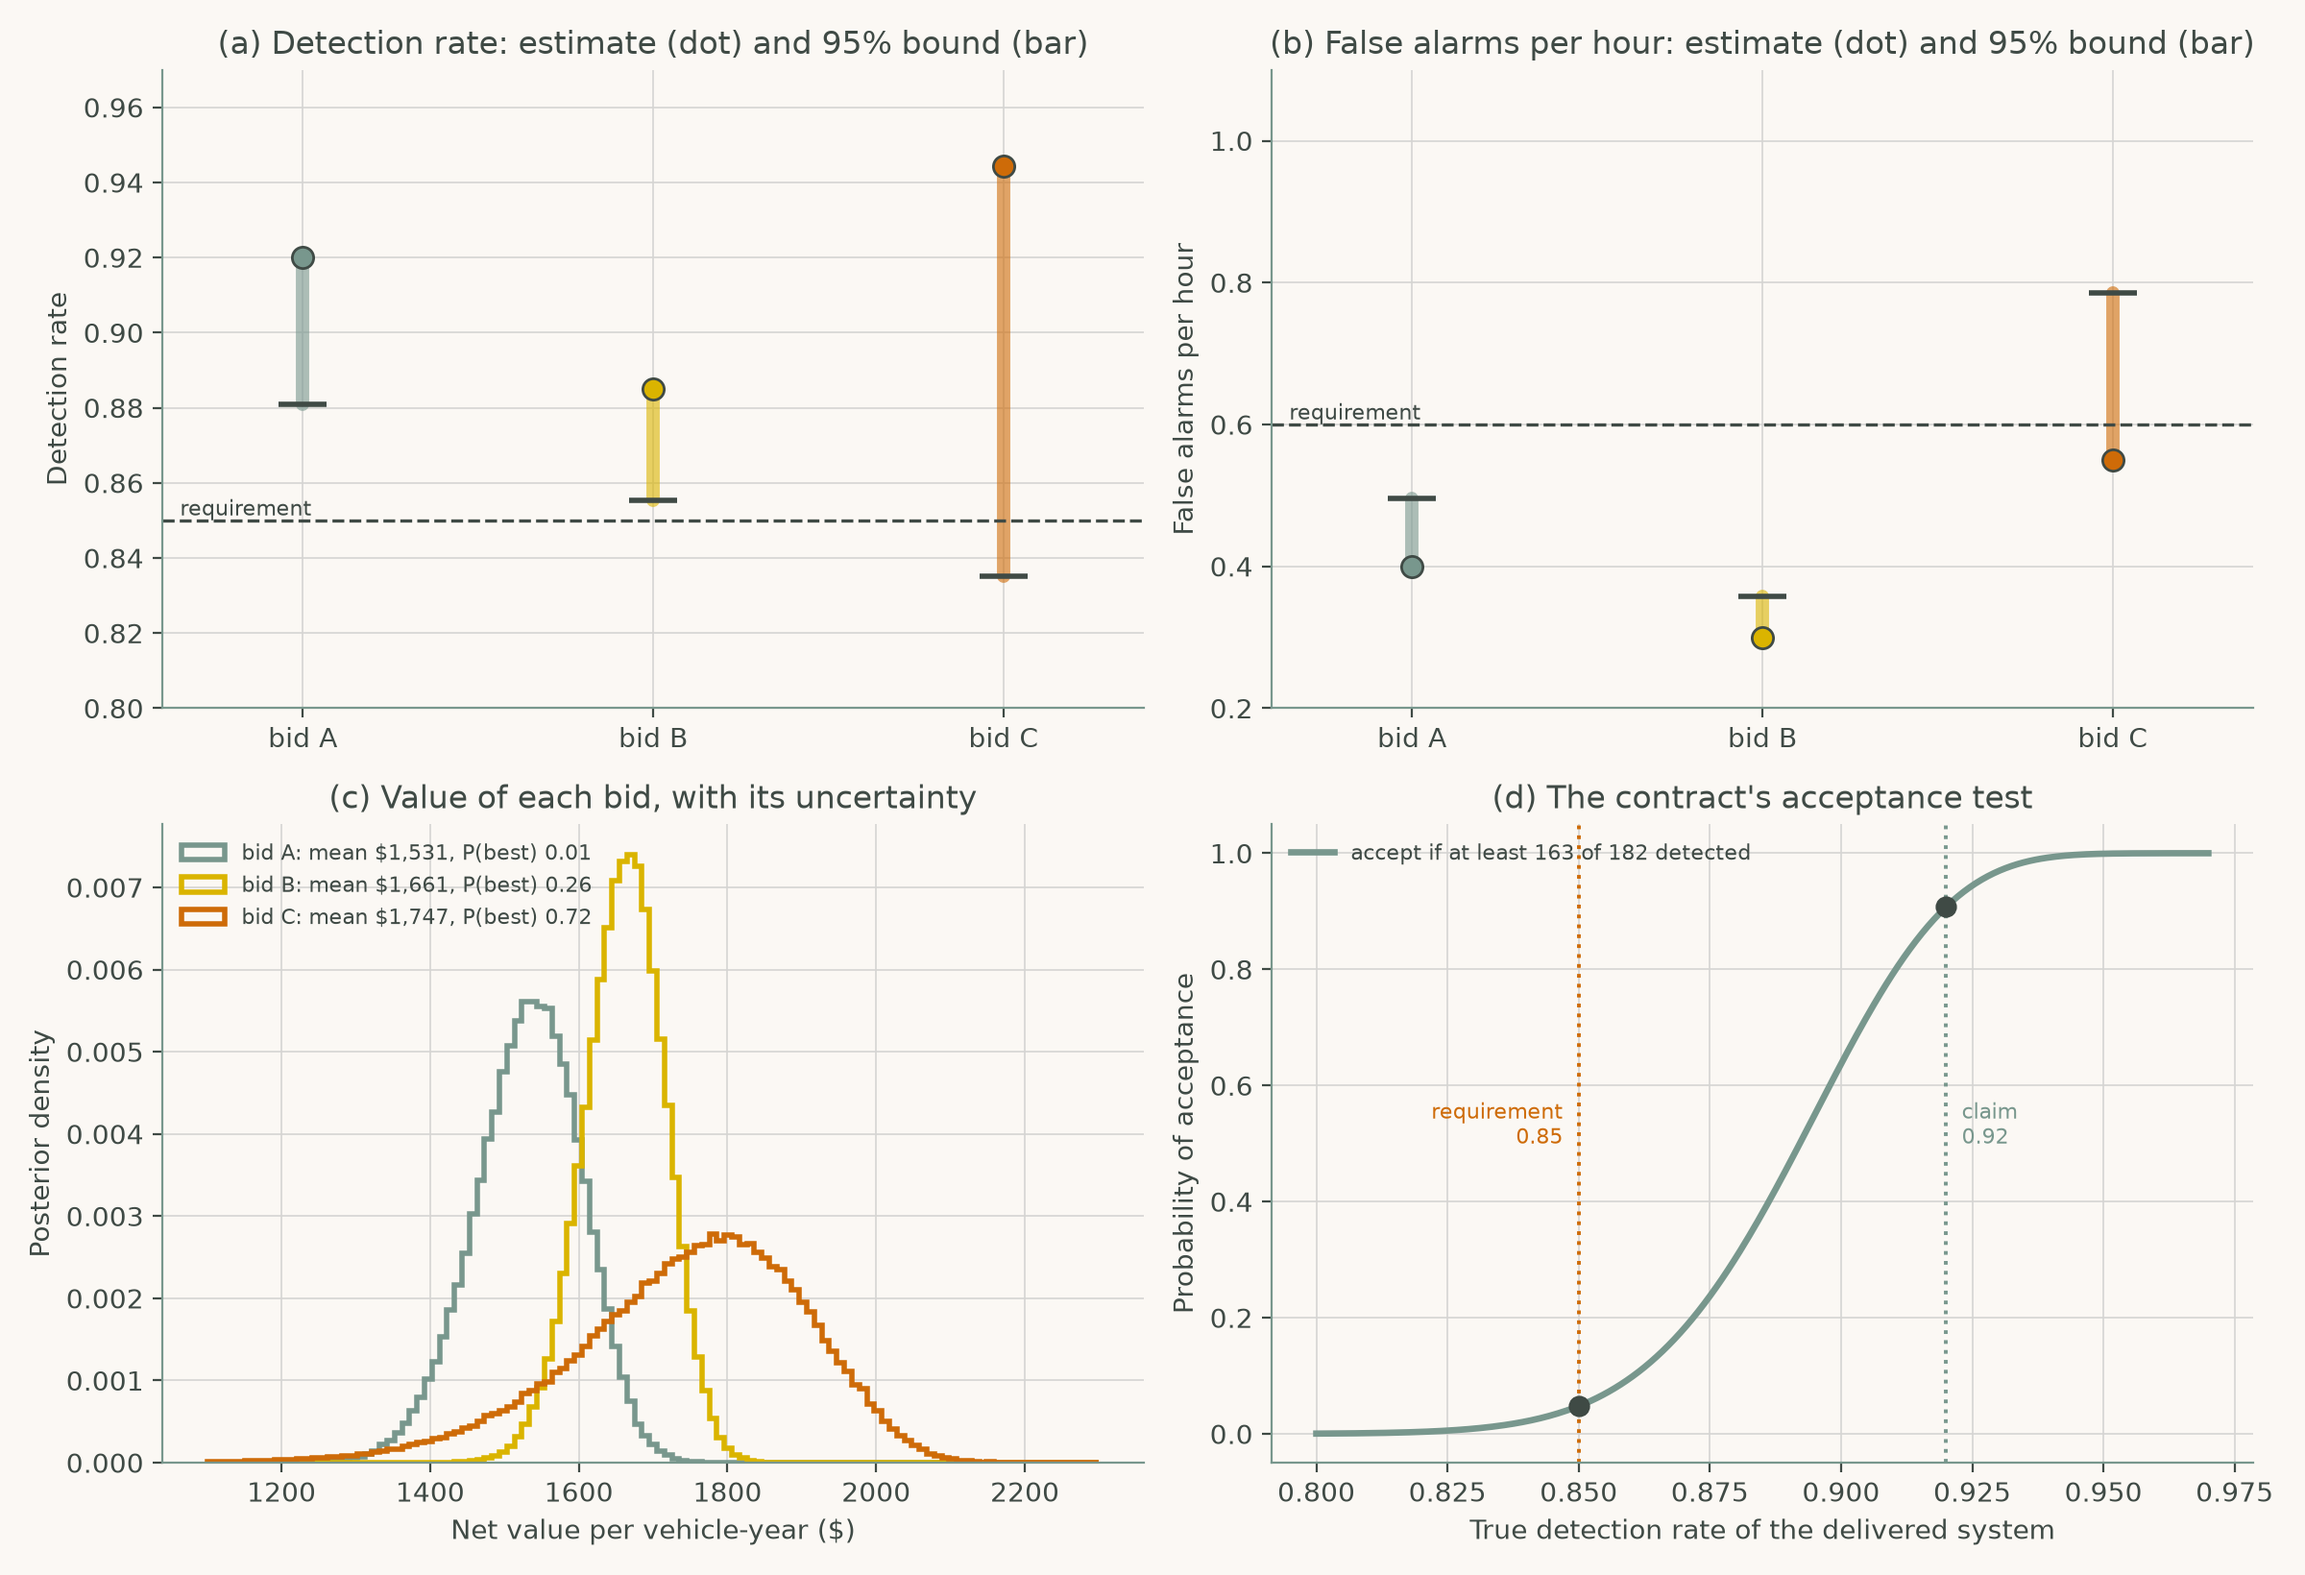
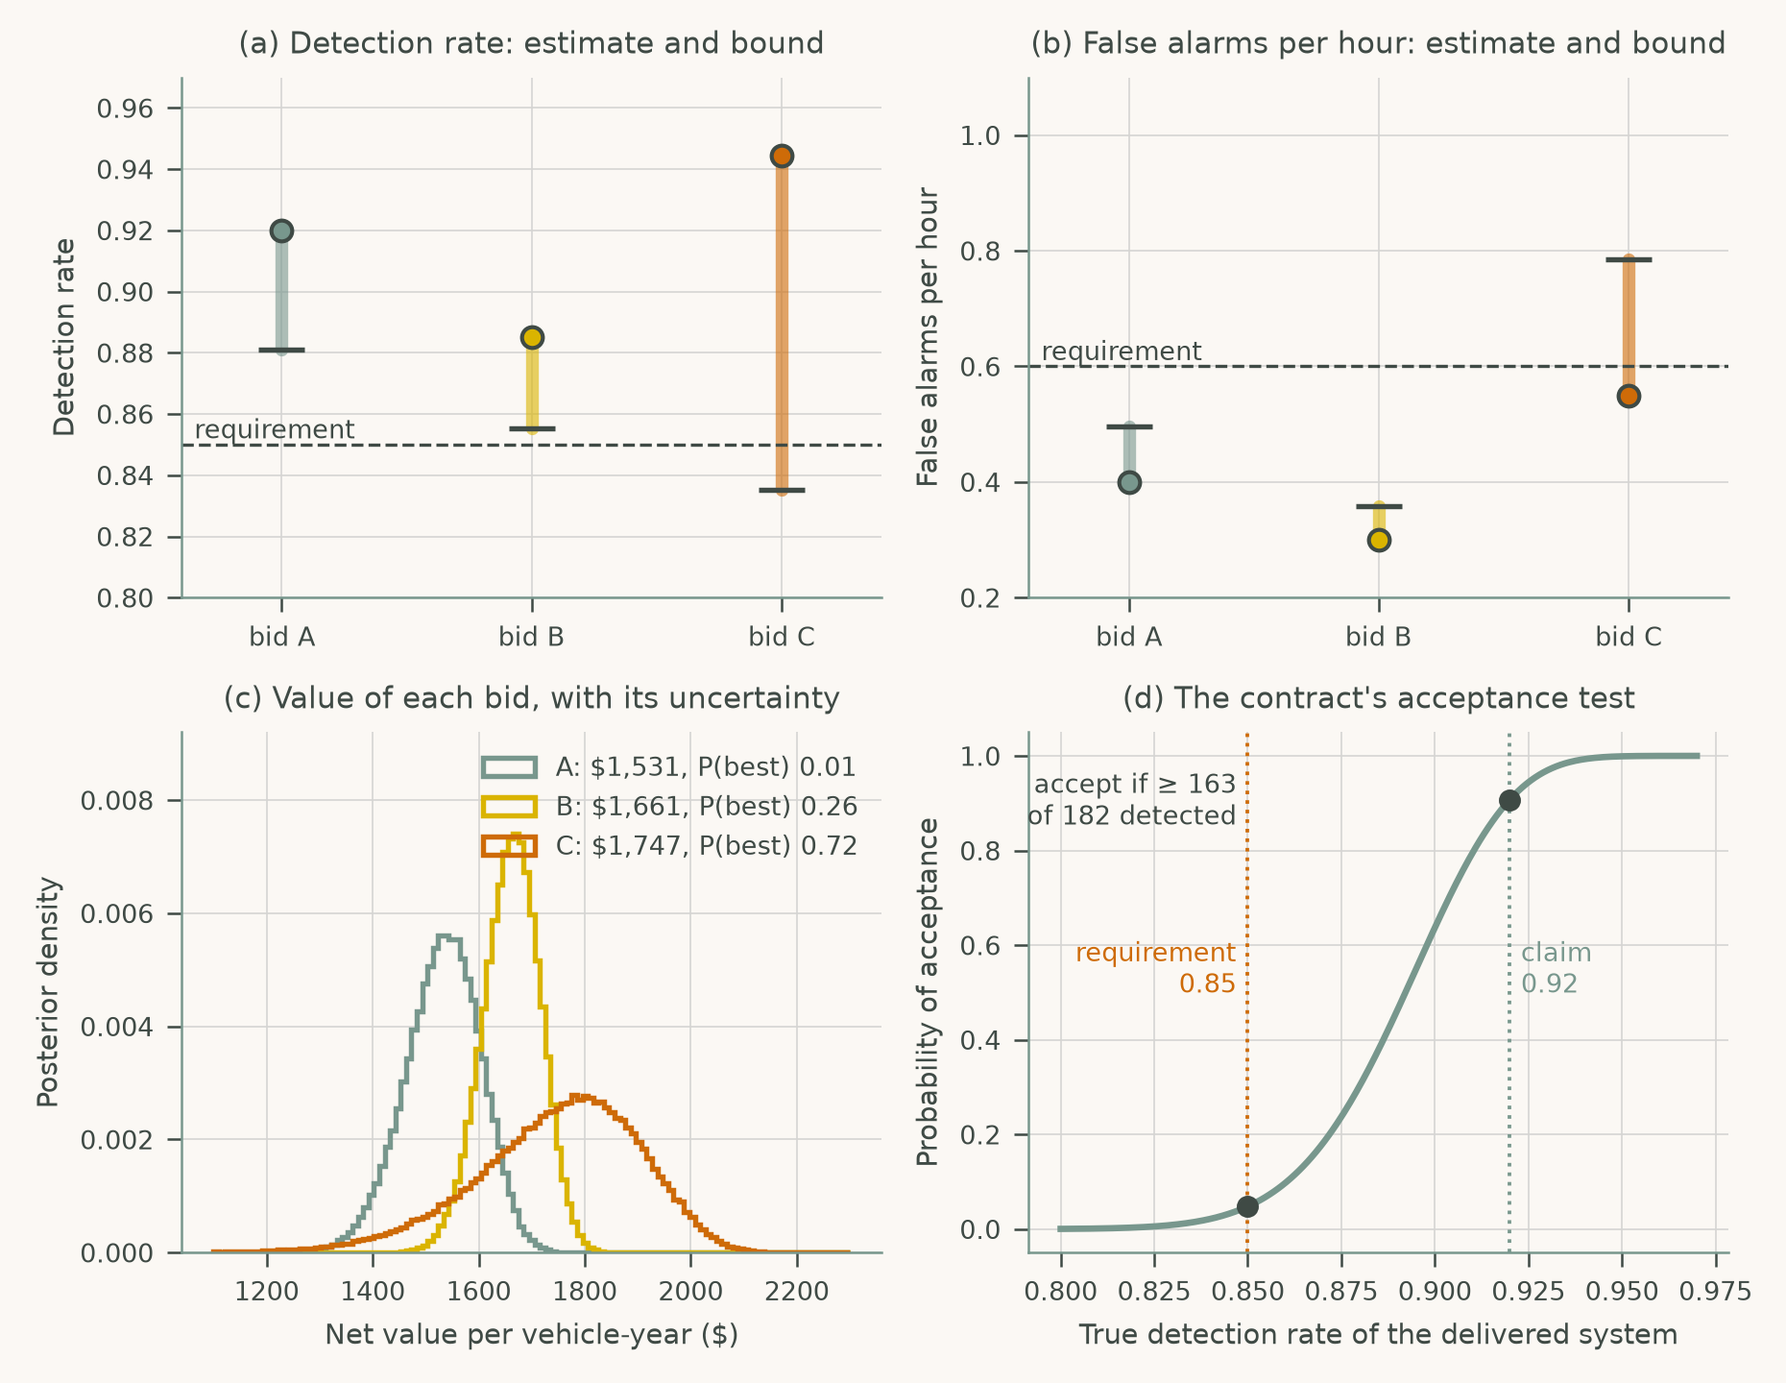
Redraw Chapter 12 figures at print size with readable type

diff --git a/chapters/ch12_policy_implementation/cs2_implementation.py b/chapters/ch12_policy_implementation/cs2_implementation.py
@@ -147,44 +147,46 @@ plt.rcParams.update({
     "xtick.color": INK, "ytick.color": INK,
     "figure.facecolor": PAPER, "axes.facecolor": PAPER,
     "axes.spines.top": False, "axes.spines.right": False,
-    "axes.grid": True, "grid.color": GRID, "grid.linewidth": 0.6})
-fig, ax = plt.subplots(2, 2, figsize=(12, 8.2))
+    "axes.grid": True, "grid.color": GRID, "grid.linewidth": 0.4,
+    "font.size": 7, "axes.titlesize": 7.5, "axes.labelsize": 7, "legend.fontsize": 6.5,
+    "xtick.labelsize": 6.5, "ytick.labelsize": 6.5, "axes.linewidth": 0.6,
+    "xtick.major.width": 0.6, "ytick.major.width": 0.6, "lines.linewidth": 1.2,
+    "legend.frameon": False})
+fig, ax = plt.subplots(2, 2, figsize=(6.2, 4.8))
 a = ax[0, 0]                                                   # (a) posterior by phase
 rr = np.linspace(0.3, 1.8, 400)
-a.plot(rr, stats.gamma.pdf(rr, A0, scale=1 / B0), color=INK, lw=1.4, ls=":", label="prior")
+a.plot(rr, stats.gamma.pdf(rr, A0, scale=1 / B0), color=INK, lw=0.9, ls=":", label="prior")
 aa, bb = A0, B0
 for (_, r), c in zip(log.iterrows(), [GOLD, SAGE]):
     aa, bb = aa + r.observed, bb + r.expected
-    a.plot(rr, stats.gamma.pdf(rr, aa, scale=1 / bb), color=c, lw=2.2,
-           label=f"after {r.phase}: P(RR < 1) = {r.P_benefit:.3f}")
-a.axvline(1, color=RUST, ls="--", lw=1)
-a.axvline(RR_TRUE, color=INK, lw=0.8)
-a.set_ylim(0, a.get_ylim()[1] * 1.12)
-a.text(RR_TRUE + 0.015, a.get_ylim()[1] * 0.97, "true 0.85", fontsize=7.8, va="top")
+    a.plot(rr, stats.gamma.pdf(rr, aa, scale=1 / bb), color=c, lw=1.4,
+           label=f"{r.phase}: P(RR < 1) = {r.P_benefit:.3f}")
+a.axvline(1, color=RUST, ls="--", lw=0.6)
+a.axvline(RR_TRUE, color=INK, lw=0.5, label=f"true ratio {RR_TRUE}")
 a.set(xlabel="Crash rate ratio with the program", ylabel="Posterior density",
       title="(a) Evidence accumulates across phases")
-a.legend(fontsize=8, frameon=False, loc="upper right")
+a.legend(fontsize=6, loc="center right", bbox_to_anchor=(1, 0.62), handlelength=1.5)
 a = ax[0, 1]                                                   # (b) gate characteristics
-a.plot(oc.true_RR, oc.P_full_deployment, "-o", color=SAGE, mec=INK, lw=2.2, ms=6,
+a.plot(oc.true_RR, oc.P_full_deployment, "-o", color=SAGE, mec=INK, lw=1.4, ms=3.9,
        label="reaches full deployment")
-a.plot(oc.true_RR, oc.P_go_at_pilot_closed, "--", color=GOLD, lw=1.8,
-       label="advances at the first pilot look (closed form)")
-a.plot(oc.true_RR, oc.P_go_at_pilot_sim, "o", color=GOLD, mec=INK, ms=5,
+a.plot(oc.true_RR, oc.P_go_at_pilot_closed, "--", color=GOLD, lw=1.2,
+       label="advances at pilot (closed form)")
+a.plot(oc.true_RR, oc.P_go_at_pilot_sim, "o", color=GOLD, mec=INK, ms=3.2,
        label="same, simulated")
-a.axvline(1, color=RUST, ls="--", lw=1)
+a.axvline(1, ymax=0.6, color=RUST, ls="--", lw=0.6)
 a.set(xlabel="True crash rate ratio", ylabel="Probability",
-      title="(b) Gates rarely approve a program that does not work")
-a.legend(fontsize=8, frameon=False, loc="upper right")
+      title="(b) Gates rarely approve failures")
+a.legend(fontsize=6.5, loc="upper right")
 a = ax[1, 0]                                                   # (c) efficacy to impact
 labs = ["efficacy", "x adoption", "x reach", "x fidelity", "x maintenance"]
 vals, lvl = [], 1.0
 for _, f in steps:
     lvl *= f
     vals.append(lvl)
-a.bar(range(5), vals, color=[RUST, GOLD, OLIVE, SAGE, SKY], edgecolor=INK, lw=0.6)
+a.bar(range(5), vals, color=[RUST, GOLD, OLIVE, SAGE, SKY], edgecolor=INK, lw=0.5)
 for i, v in enumerate(vals):
-    a.text(i, v + 0.005, f"{v:.3f}", ha="center", fontsize=8)
-a.set_xticks(range(5), labs, fontsize=8)
+    a.text(i, v + 0.005, f"{v:.3f}", ha="center", fontsize=6.5)
+a.set_xticks(range(5), labs, fontsize=6.5, rotation=25, ha="right")
 a.set(ylabel="Crash reduction in the population", ylim=(0, 0.29),
       title="(c) From 25% efficacy to 6.3% impact (RE-AIM)")
 a = ax[1, 1]                                                   # (d) CUSUM surveillance
@@ -194,14 +196,15 @@ a2.bar(months[show], counts[show], color=GRID, width=0.8, zorder=0)
 a2.set_ylabel("Incidents per month", color=INK)
 a2.spines["right"].set_visible(True)
 a.set_zorder(a2.get_zorder() + 1); a.patch.set_visible(False)
-a.plot(months[show], path[show], color=RUST, lw=2, label="CUSUM statistic")
-a.axhline(H, color=INK, ls="--", lw=1.2, label=f"decision interval H = {H}")
-a.axvline(60.5, color=SAGE, ls=":", lw=1.6, label="regression after month 60")
+a.plot(months[show], path[show], color=RUST, lw=1.3, label="CUSUM statistic")
+a.axhline(H, color=INK, ls="--", lw=0.8, label=f"decision interval H = {H}")
+a.axvline(60.5, color=SAGE, ls=":", lw=1, label="regression after month 60")
 if signal:
-    a.plot(signal, path[signal - 1], "o", color=INK, ms=7)
-    a.text(signal + 2, path[signal - 1], f"signal, month {signal}", fontsize=8,
+    a.plot(signal, path[signal - 1], "o", color=INK, ms=4.5)
+    a.text(signal + 2, path[signal - 1], f"signal, month {signal}", fontsize=6.5,
            bbox=dict(fc=PAPER, ec="none", pad=1))
-a.set(xlabel="Month after deployment", ylabel="CUSUM statistic", ylim=(-1, max(3.2 * H, 1.08 * path[show].max())),
+a.set(xlabel="Month after deployment", ylabel="CUSUM statistic",
+      ylim=(-1, max(3.2 * H, 1.08 * path[show].max())),
       title="(d) Surveillance catches a bad update")
-a.legend(fontsize=7.5, frameon=False, loc="upper left")
-fig.tight_layout(); fig.savefig("chap12_fig02_implementation.png", dpi=200)
+a.legend(fontsize=6, loc="upper left")
+fig.tight_layout(); fig.savefig("chap12_fig02_implementation.png", dpi=300)

diff --git a/chapters/ch12_policy_implementation/cs1_procurement.py b/chapters/ch12_policy_implementation/cs1_procurement.py
@@ -125,8 +125,12 @@ plt.rcParams.update({
     "xtick.color": INK, "ytick.color": INK,
     "figure.facecolor": PAPER, "axes.facecolor": PAPER,
     "axes.spines.top": False, "axes.spines.right": False,
-    "axes.grid": True, "grid.color": GRID, "grid.linewidth": 0.6})
-fig, ax = plt.subplots(2, 2, figsize=(12, 8.2))
+    "axes.grid": True, "grid.color": GRID, "grid.linewidth": 0.4,
+    "font.size": 7, "axes.titlesize": 7.5, "axes.labelsize": 7, "legend.fontsize": 6.5,
+    "xtick.labelsize": 6.5, "ytick.labelsize": 6.5, "axes.linewidth": 0.6,
+    "xtick.major.width": 0.6, "ytick.major.width": 0.6, "lines.linewidth": 1.2,
+    "legend.frameon": False})
+fig, ax = plt.subplots(2, 2, figsize=(6.2, 4.8))
 col = {"A": SAGE, "B": GOLD, "C": RUST}
 x = np.arange(3)
 PANELS = [("det", "det_lo", REQ["det"], "Detection rate"),
@@ -135,14 +139,14 @@ for k, (metric, lo, req, lab) in enumerate(PANELS):
     # (a), (b) evidence vs. requirement
     a = ax[0, k]
     for i, r in ev.iterrows():
-        a.plot([i, i], sorted([r[metric], r[lo]]), color=col[r.bid], lw=5, alpha=0.6,
+        a.plot([i, i], sorted([r[metric], r[lo]]), color=col[r.bid], lw=3.2, alpha=0.6,
                solid_capstyle="round")
-        a.plot(i, r[metric], "o", color=col[r.bid], mec=INK, ms=8)
-        a.plot(i, r[lo], "_", color=INK, ms=18, mew=2)
-    a.axhline(req, color=INK, ls="--", lw=1.2)
+        a.plot(i, r[metric], "o", color=col[r.bid], mec=INK, ms=5.2)
+        a.plot(i, r[lo], "_", color=INK, ms=11.6, mew=1.3)
+    a.axhline(req, color=INK, ls="--", lw=0.8)
     a.set_xticks(x, [f"bid {v}" for v in BIDS])
-    a.set(ylabel=lab, title=f"({'ab'[k]}) {lab}: estimate (dot) and 95% bound (bar)")
-    a.text(-0.35, req, "requirement", fontsize=7.8, va="bottom", ha="left")
+    a.set(ylabel=lab, title=f"({'ab'[k]}) {lab}: estimate and bound")
+    a.text(-0.35, req, "requirement", fontsize=6.5, va="bottom", ha="left")
     a.set_xlim(-0.4, 2.4)
 ax[0, 0].set_ylim(0.8, 0.97)
 ax[0, 1].set_ylim(0.2, 1.1)
@@ -150,22 +154,22 @@ ax[0, 1].set_ylim(0.2, 1.1)
 a = ax[1, 0]
 bins = np.linspace(1100, 2300, 120)
 for v in BIDS:
-    a.hist(draws[v], bins, density=True, histtype="step", lw=2, color=col[v],
-           label=f"bid {v}: mean ${draws[v].mean():,.0f}, P(best) {best.get(v, 0):.2f}")
+    a.hist(draws[v], bins, density=True, histtype="step", lw=1.3, color=col[v],
+           label=f"{v}: ${draws[v].mean():,.0f}, P(best) {best.get(v, 0):.2f}")
 a.set(xlabel="Net value per vehicle-year ($)", ylabel="Posterior density",
-      title="(c) Value of each bid, with its uncertainty")
-a.legend(fontsize=8, frameon=False, loc="upper left")
+      title="(c) Value of each bid, with its uncertainty", ylim=(0, 0.0092))
+a.legend(fontsize=6.5, loc="upper right")
 a = ax[1, 1]                                                   # (d) acceptance plan
 pp = np.linspace(0.80, 0.97, 300)
-a.plot(pp, stats.binom.sf(c_ex - 1, n_ex, pp), color=SAGE, lw=2.4,
-       label=f"accept if at least {c_ex} of {n_ex} detected")
-a.axvline(P_BAD, color=RUST, ls=":", lw=1.4)
-a.axvline(P_CLAIM, color=SAGE, ls=":", lw=1.4)
+a.plot(pp, stats.binom.sf(c_ex - 1, n_ex, pp), color=SAGE, lw=1.6)
+a.axvline(P_BAD, color=RUST, ls=":", lw=0.9)
+a.axvline(P_CLAIM, color=SAGE, ls=":", lw=0.9)
 a.plot([P_BAD, P_CLAIM], [stats.binom.sf(c_ex - 1, n_ex, P_BAD),
-                          stats.binom.sf(c_ex - 1, n_ex, P_CLAIM)], "o", color=INK, ms=7)
-a.text(P_BAD - 0.003, 0.5, "requirement\n0.85", fontsize=7.8, color=RUST, ha="right")
-a.text(P_CLAIM + 0.003, 0.5, "claim\n0.92", fontsize=7.8, color=SAGE)
+                          stats.binom.sf(c_ex - 1, n_ex, P_CLAIM)], "o", color=INK, ms=4.5)
+a.text(P_BAD - 0.003, 0.5, "requirement\n0.85", fontsize=6.5, color=RUST, ha="right")
+a.text(P_CLAIM + 0.003, 0.5, "claim\n0.92", fontsize=6.5, color=SAGE)
 a.set(xlabel="True detection rate of the delivered system",
       ylabel="Probability of acceptance", title="(d) The contract's acceptance test")
-a.legend(fontsize=8, frameon=False, loc="upper left")
-fig.tight_layout(); fig.savefig("chap12_fig01_procurement.png", dpi=200)
+a.text(P_BAD - 0.003, 0.97, f"accept if \u2265 {c_ex}\nof {n_ex} detected", fontsize=6.5,
+       va="top", ha="right")
+fig.tight_layout(); fig.savefig("chap12_fig01_procurement.png", dpi=300)
